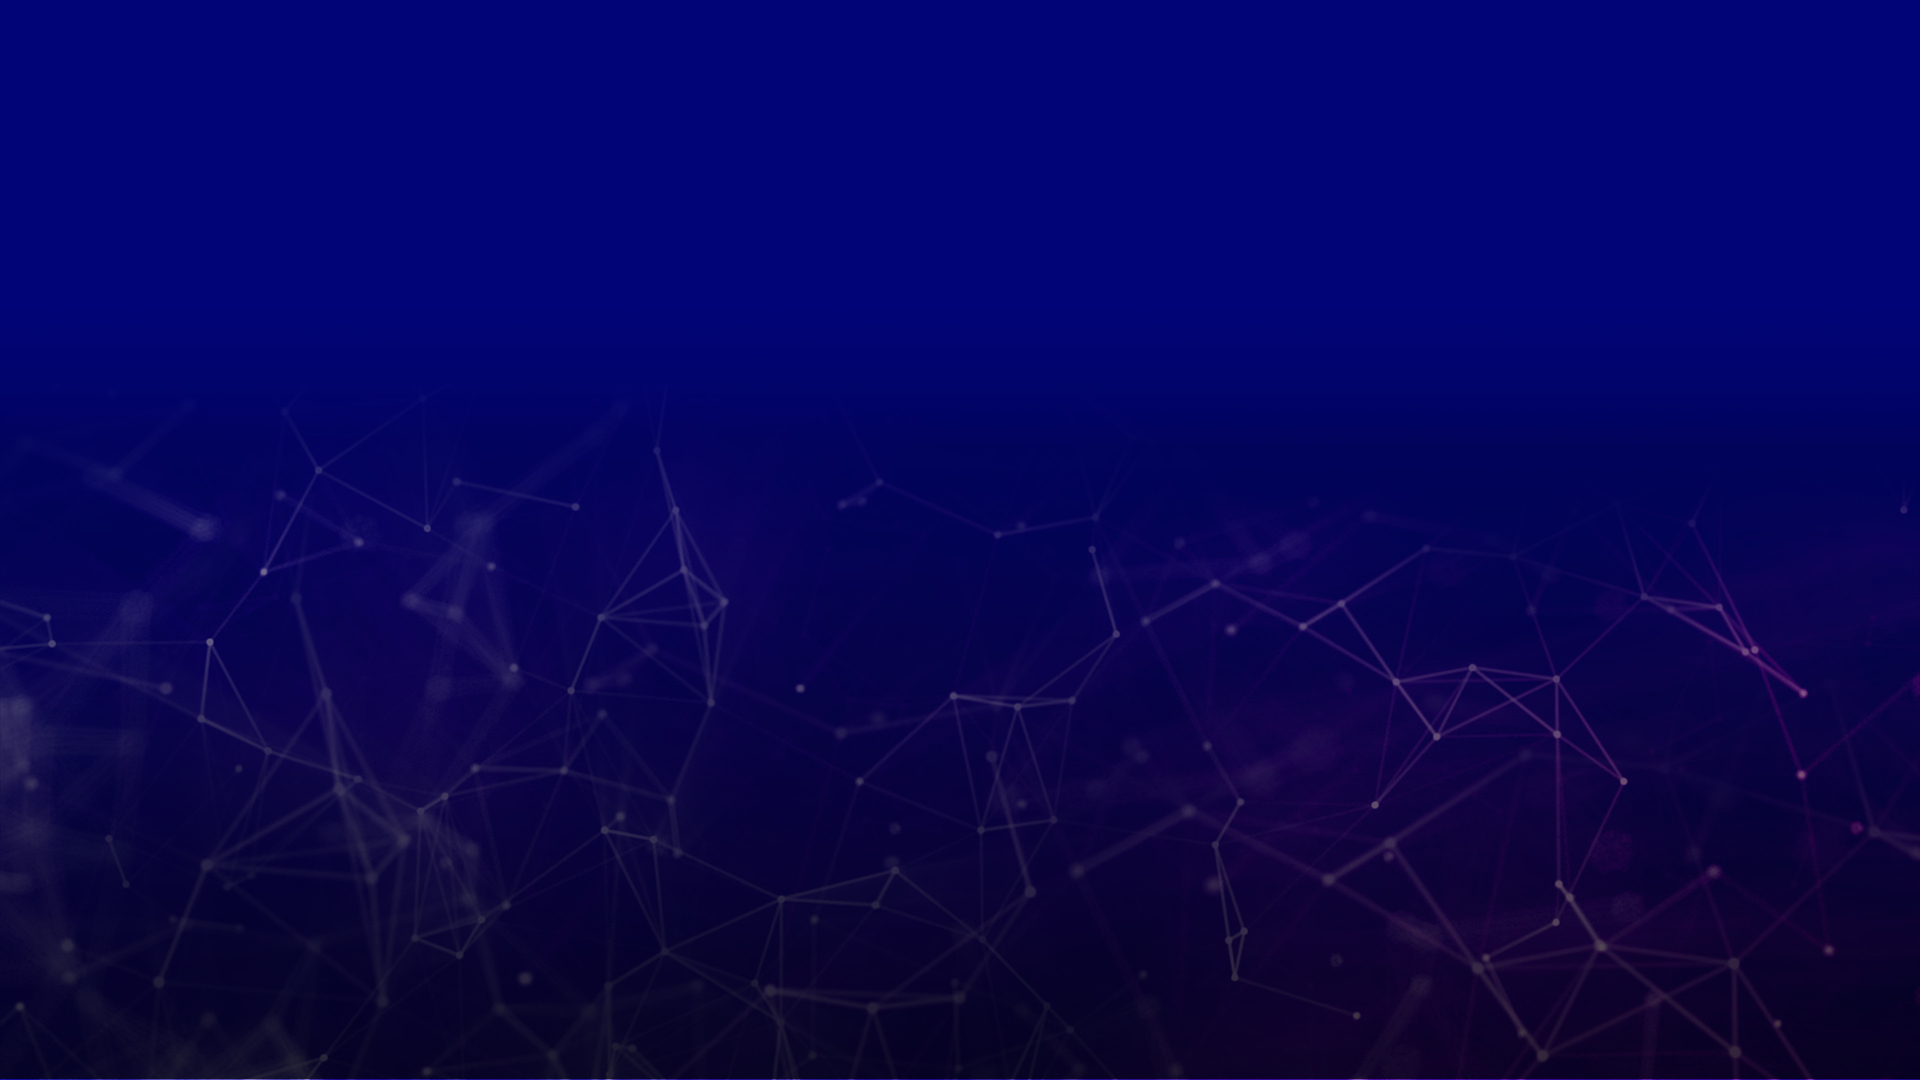
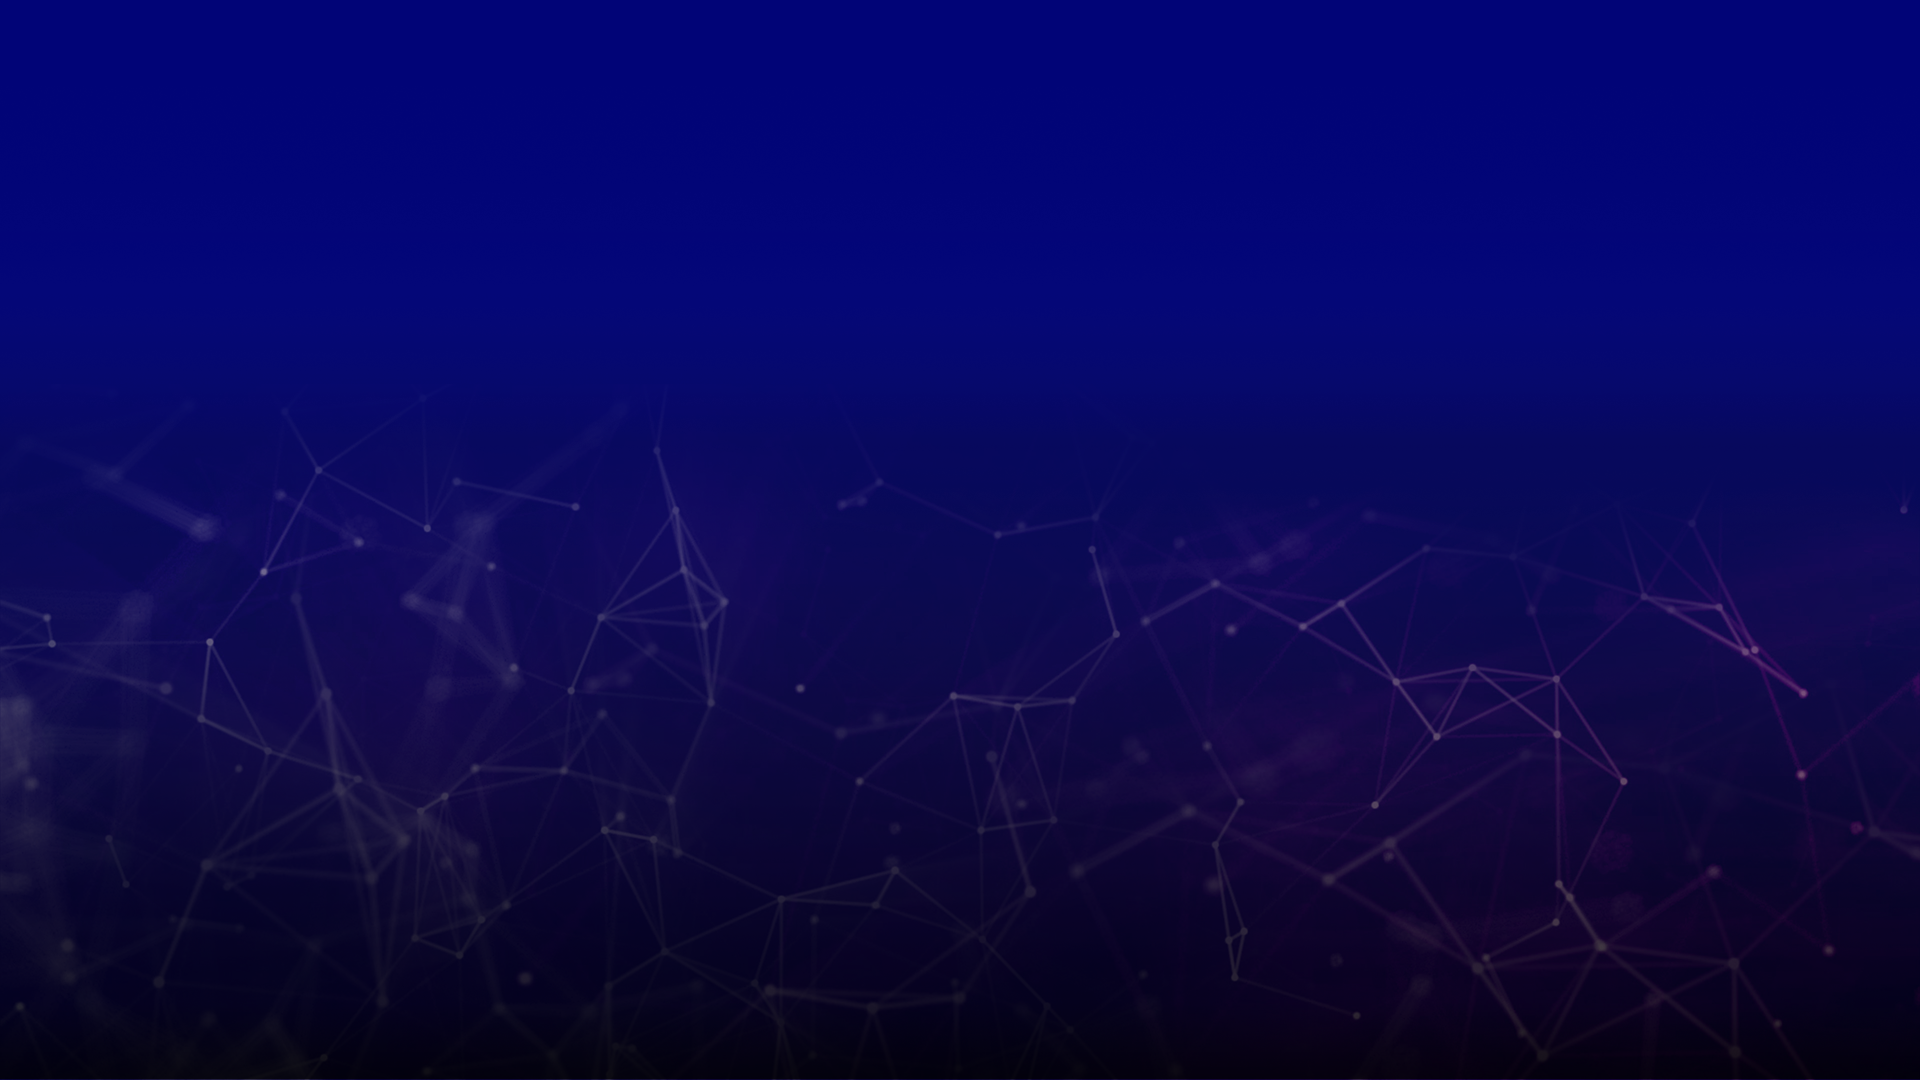
Optimize: Image

diff --git a/app/ui/navbar.js b/app/ui/navbar.js
@@ -13,6 +13,7 @@ export default function NavBar() {
           className="sm:max-w-none sm:max-h-32 md:max-h-32 lg:max-h-32 w-auto"
           loading="eager"
           fetchPriority="high"
+          priority={true}
           width={499}
           height={187}
         />
@@ -28,6 +29,7 @@ export default function NavBar() {
           loading="eager"
           fetchPriority="high"
           alt="MLC"
+          priority={true}
           className="w-32 mr-10"
           width={1361}
           height={935}

diff --git a/app/mlc/page.js b/app/mlc/page.js
@@ -96,7 +96,7 @@ export default function Home() {
                       <Image
                         width={320}
                         height={320}
-                        src={`/mlc/assets/img/lecturers/${el.id}.png`}
+                        src={`/assets/img/lecturers/${el.id}.png`}
                         alt=""
                         className="bg-white rounded-full group-hover:scale-[1.02] transition-all w-32 md:w-full"
                       />

diff --git a/app/layout.js b/app/layout.js
@@ -47,7 +47,7 @@ export default function RootLayout({ children }) {
       </head>
       <body
         className={
-          `bg-[#010477] bg-[url('https://academy.moralcenter.or.th/mlc/assets/img/mainbg.png')] bg-cover bg-no-repeat bg-center bg-fixed text-white ` +
+          `bg-[#010477] bg-[url('/assets/img/mainbg.webp')] bg-cover bg-no-repeat bg-center bg-fixed text-white ` +
           lineSeed.className
         }
       >
